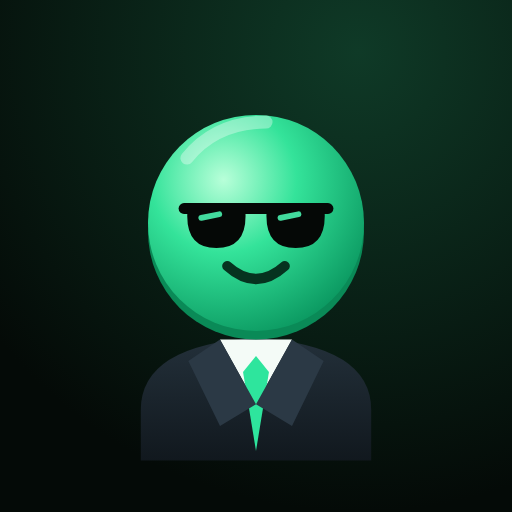
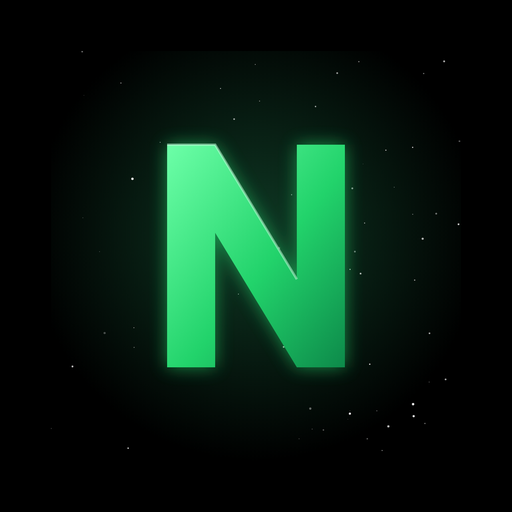
Galaxia negra con estrellas que brillan, íconos y personajes nuevos
Claude-Session: https://claude.ai/code/session_01778MfouyxbgDrk4pFyrYCz

diff --git a/galaxy.js b/galaxy.js
@@ -1,62 +1,76 @@
-// Fondo de galaxia en movimiento: estrellas que se desplazan en capas, nebulosas que respiran
-// y una estrella fugaz de vez en cuando. Se adapta al tema claro u oscuro de la app.
+// Fondo de galaxia negra: estrellas que titilan, algunas con destello en cruz, una Vía Láctea
+// muy suave que gira lento y estrellas fugaces de vez en cuando. En tema claro se vuelve discreto.
 (function () {
   if (window.__galaxy) return; window.__galaxy = true;
   var st = document.createElement('style');
-  st.textContent = 'html:not(#gx){background:var(--bg,#0e0e16)!important}html body:not(#gx),html .auth:not(#gx),html #authOverlay:not(#gx){background:transparent!important}#galaxy-bg{position:fixed;inset:0;width:100vw;height:100vh;z-index:-1;pointer-events:none;display:block}';
+  st.id = 'galaxy-css';
   document.head.appendChild(st);
   var cv = document.createElement('canvas'); cv.id = 'galaxy-bg'; cv.setAttribute('aria-hidden', 'true');
   function mount() { document.body.insertBefore(cv, document.body.firstChild); }
   if (document.body) mount(); else document.addEventListener('DOMContentLoaded', mount);
-  var c = cv.getContext('2d'), W = 0, H = 0, D = 1, stars = [], dark = true, base = [14, 14, 22], accent = [124, 92, 255];
+  var c = cv.getContext('2d'), W = 0, H = 0, D = 1, stars = [], dust = [], dark = true, shoot = null;
   function rgb(s) { var m = String(s).match(/\d+(\.\d+)?/g); return m && m.length >= 3 ? [+m[0], +m[1], +m[2]] : null; }
   function theme() {
-    var cs = getComputedStyle(document.documentElement);
-    base = rgb(cs.backgroundColor) || base;
-    var a = cs.getPropertyValue('--accent') || cs.getPropertyValue('--brand') || cs.getPropertyValue('--primary');
-    if (a && a.trim()) { var t = document.createElement('i'); t.style.color = a.trim(); document.body.appendChild(t); accent = rgb(getComputedStyle(t).color) || accent; t.remove(); }
-    dark = (0.299 * base[0] + 0.587 * base[1] + 0.114 * base[2]) < 128;
+    // Lee el color de fondo que define la app (--bg) para saber si está en tema oscuro o claro.
+    var probe = document.createElement('i'); probe.style.color = 'var(--bg, #000)'; document.body.appendChild(probe);
+    var b = rgb(getComputedStyle(probe).color) || [0, 0, 0]; probe.remove();
+    var was = dark; dark = (0.299 * b[0] + 0.587 * b[1] + 0.114 * b[2]) < 128;
+    st.textContent = 'html:not(#gx){background:' + (dark ? '#000' : 'var(--bg,#f4f4f7)') + '!important}html body:not(#gx),html .auth:not(#gx),html #authOverlay:not(#gx){background:transparent!important}#galaxy-bg{position:fixed;inset:0;width:100vw;height:100vh;z-index:-1;pointer-events:none;display:block}';
+    var mt = document.querySelector('meta[name="theme-color"]'); if (mt && dark) mt.setAttribute('content', '#000000');
+    return was !== dark;
   }
   function seed() {
-    var n = Math.round(Math.min(260, W * H / 4200)); stars = [];
-    for (var i = 0; i < n; i++) stars.push({ x: Math.random() * W, y: Math.random() * H, z: Math.random(), p: Math.random() * 6.28, h: Math.random() });
+    var n = Math.round(Math.min(420, W * H / 2600)); stars = [];
+    for (var i = 0; i < n; i++) {
+      var z = Math.pow(Math.random(), 2.2);
+      stars.push({ x: Math.random() * W, y: Math.random() * H, z: z, p: Math.random() * 6.28, sp: .6 + Math.random() * 2.4, h: Math.random(), flare: z > .82 && Math.random() < .5 });
+    }
+    dust = []; for (var j = 0; j < 260; j++) { var t = Math.random(); dust.push({ t: t, o: (Math.random() - .5) * (.12 + Math.random() * .1), r: Math.random() * 1.1 + .2, a: Math.random() }); }
   }
   function size() { D = Math.min(2, window.devicePixelRatio || 1); W = innerWidth; H = innerHeight; cv.width = W * D; cv.height = H * D; c.setTransform(D, 0, 0, D, 0, 0); seed(); }
-  var shoot = null;
-  function frame(t) {
-    t /= 1000;
+  function frame(ms) {
+    var t = ms / 1000;
     c.clearRect(0, 0, W, H);
-    // nebulosas
-    var neb = [[accent, .25, .3, .55], [[90, 140, 255], .8, .2, .45], [[255, 110, 190], .6, .85, .5]];
-    for (var k = 0; k < neb.length; k++) {
-      var col = neb[k][0], x = W * (neb[k][1] + .06 * Math.sin(t * .05 + k * 2)), y = H * (neb[k][2] + .05 * Math.cos(t * .04 + k)), r = Math.max(W, H) * neb[k][3] * (1 + .08 * Math.sin(t * .1 + k));
-      var g = c.createRadialGradient(x, y, 0, x, y, r), a = dark ? .2 : .1;
-      g.addColorStop(0, 'rgba(' + col + ',' + a + ')'); g.addColorStop(1, 'rgba(' + col + ',0)');
-      c.fillStyle = g; c.fillRect(0, 0, W, H);
-    }
-    // estrellas en capas (las cercanas se mueven más rápido)
+    var ink = dark ? '255,255,255' : '40,40,80';
+    // Vía Láctea: una banda diagonal muy tenue que gira despacio
+    c.save(); c.translate(W / 2, H / 2); c.rotate(-.55 + Math.sin(t * .01) * .05);
+    var L = Math.hypot(W, H), bw = Math.min(W, H) * .32;
+    var g = c.createLinearGradient(0, -bw, 0, bw);
+    g.addColorStop(0, 'rgba(120,110,200,0)'); g.addColorStop(.5, dark ? 'rgba(150,140,230,.07)' : 'rgba(120,110,200,.05)'); g.addColorStop(1, 'rgba(120,110,200,0)');
+    c.fillStyle = g; c.fillRect(-L, -bw, L * 2, bw * 2);
+    for (var j = 0; j < dust.length; j++) { var d = dust[j]; var x = (d.t - .5) * L * 1.1, y = d.o * L; c.fillStyle = 'rgba(' + ink + ',' + (.15 + .25 * (.5 + .5 * Math.sin(t * .8 + d.a * 9))) * (dark ? 1 : .5) + ')'; c.fillRect(x, y, d.r, d.r); }
+    c.restore();
+    // estrellas
     for (var i = 0; i < stars.length; i++) {
-      var s = stars[i], sp = .8 + s.z * 7;
-      var x2 = (s.x + t * sp) % (W + 4), y2 = (s.y + t * sp * .35) % (H + 4);
-      var tw = .5 + .5 * Math.sin(t * (1 + s.z * 2) + s.p), r2 = .4 + s.z * 1.5;
-      var tint = s.h < .15 ? '200,215,255' : s.h > .92 ? '255,225,190' : (dark ? '255,255,255' : '60,60,110');
-      c.fillStyle = 'rgba(' + tint + ',' + ((dark ? .35 : .22) + tw * (dark ? .6 : .3)) + ')';
-      c.beginPath(); c.arc(x2, y2, r2, 0, 6.29); c.fill();
-      if (s.z > .93 && dark) { c.fillStyle = 'rgba(255,255,255,' + tw * .12 + ')'; c.beginPath(); c.arc(x2, y2, r2 * 4, 0, 6.29); c.fill(); }
+      var s = stars[i];
+      var x2 = (s.x + t * (1 + s.z * 4)) % (W + 6), y2 = s.y;
+      var tw = .5 + .5 * Math.sin(t * s.sp + s.p); tw = tw * tw;
+      var r = .35 + s.z * 1.7;
+      var col = s.h < .12 ? '180,205,255' : s.h > .93 ? '255,220,180' : ink;
+      var a = (dark ? .25 : .12) + tw * (dark ? .75 : .35);
+      c.fillStyle = 'rgba(' + col + ',' + a + ')';
+      c.beginPath(); c.arc(x2, y2, r, 0, 6.29); c.fill();
+      if (s.flare && dark) {
+        var fl = r * (4 + tw * 7);
+        c.strokeStyle = 'rgba(' + col + ',' + tw * .55 + ')'; c.lineWidth = .8;
+        c.beginPath(); c.moveTo(x2 - fl, y2); c.lineTo(x2 + fl, y2); c.moveTo(x2, y2 - fl); c.lineTo(x2, y2 + fl); c.stroke();
+        var gg = c.createRadialGradient(x2, y2, 0, x2, y2, r * 6); gg.addColorStop(0, 'rgba(' + col + ',' + tw * .35 + ')'); gg.addColorStop(1, 'rgba(' + col + ',0)');
+        c.fillStyle = gg; c.beginPath(); c.arc(x2, y2, r * 6, 0, 6.29); c.fill();
+      }
     }
     // estrella fugaz
-    if (!shoot && Math.random() < .004) shoot = { x: Math.random() * W * .8, y: Math.random() * H * .4, l: 0 };
+    if (!shoot && Math.random() < .003) shoot = { x: Math.random() * W * .8, y: Math.random() * H * .45, l: 0, a: .35 + Math.random() * .3 };
     if (shoot) {
-      shoot.l += .02; var L = shoot.l, sx = shoot.x + L * W * .4, sy = shoot.y + L * H * .2;
-      var lg = c.createLinearGradient(sx, sy, sx - 110, sy - 55);
-      lg.addColorStop(0, (dark ? 'rgba(255,255,255,' : 'rgba(80,80,140,') + (1 - L) + ')'); lg.addColorStop(1, 'rgba(255,255,255,0)');
-      c.strokeStyle = lg; c.lineWidth = 1.8; c.beginPath(); c.moveTo(sx, sy); c.lineTo(sx - 110, sy - 55); c.stroke();
-      if (L >= 1) shoot = null;
+      shoot.l += .018; var k = shoot.l, sx = shoot.x + k * W * .45, sy = shoot.y + k * W * .45 * shoot.a, len = 140;
+      var lg = c.createLinearGradient(sx, sy, sx - len, sy - len * shoot.a);
+      lg.addColorStop(0, 'rgba(' + ink + ',' + Math.sin(k * Math.PI) + ')'); lg.addColorStop(1, 'rgba(' + ink + ',0)');
+      c.strokeStyle = lg; c.lineWidth = 1.6; c.beginPath(); c.moveTo(sx, sy); c.lineTo(sx - len, sy - len * shoot.a); c.stroke();
+      if (k >= 1) shoot = null;
     }
   }
   var reduce = matchMedia('(prefers-reduced-motion: reduce)').matches;
   function loop(ts) { if (!document.hidden) frame(ts); requestAnimationFrame(loop); }
-  function start() { theme(); size(); if (reduce) frame(20000); else requestAnimationFrame(loop); setInterval(function () { var d = dark, b = base + ''; theme(); if (reduce && (d !== dark || b !== base + '')) frame(20000); }, 1500); }
+  function start() { theme(); size(); if (reduce) frame(20000); else requestAnimationFrame(loop); setInterval(function () { if (theme() && reduce) frame(20000); }, 1500); }
   addEventListener('resize', function () { size(); if (reduce) frame(20000); });
   if (document.readyState === 'loading') document.addEventListener('DOMContentLoaded', start); else start();
 })();

diff --git a/index.html b/index.html
@@ -3,7 +3,7 @@
 <head>
 <meta charset="utf-8">
 <meta name="viewport" content="width=device-width,initial-scale=1,viewport-fit=cover">
-<meta name="theme-color" content="#131416">
+<meta name="theme-color" content="#000000">
 <meta name="north-version" content="3">
 <meta name="apple-mobile-web-app-capable" content="yes">
 <meta name="apple-mobile-web-app-status-bar-style" content="black-translucent">
@@ -233,6 +233,7 @@ body{background:var(--bg)!important}
 .toast{background:#ededee;color:#131416}
 .coin-svg text[fill="#b9ffdf"]{fill:#9b9ca3}
 @media (prefers-reduced-motion:reduce){*{animation:none!important;transition:none!important}}
+@keyframes nfloat{0%,100%{transform:translateY(0)}50%{transform:translateY(-4px)}}@keyframes nhop{0%,100%{transform:translateY(0)}40%{transform:translateY(-10px) scale(1.04,.96)}}@keyframes nspin{0%,100%{transform:rotate(0)}30%{transform:translateY(-12px) rotate(-8deg)}60%{transform:translateY(-12px) rotate(8deg)}}@keyframes nsad{0%,100%{transform:translateY(3px) rotate(-4deg)}}@keyframes ntilt{0%,100%{transform:rotate(-6deg)}50%{transform:rotate(6deg)}}
 </style>
 </head>
 <body>
@@ -350,39 +351,12 @@ function ic(n,s=20,w=1.9){return `<svg class="ic" width="${s}" height="${s}" vie
 /* ====================== mascota: moneda con lentes ====================== */
 let _cid=0;
 function coinSVG(size=90,mood='idle'){
-  if(isSleep()&&mood!=='celebrate')mood='sleep';
-  const id='c'+(++_cid),sleep=mood==='sleep';
-  const eyes=sleep
-    ?`<path d="M47 40q5 4 10 0M63 40q5 4 10 0" stroke="#08331f" stroke-width="2.8" fill="none" stroke-linecap="round"/>`
-    :`<g class="glass"><path d="M40 36h40" stroke="#050806" stroke-width="3" stroke-linecap="round"/><path d="M41 36h16q1 11-8 11t-8-11z" fill="#050806"/><path d="M63 36h16q1 11-8 11t-8-11z" fill="#050806"/><path d="M45 39l5-1M67 39l5-1" stroke="#4dffb8" stroke-width="1.8" stroke-linecap="round" opacity=".85"/></g>`;
-  const mouth=mood==='happy'||mood==='celebrate'||mood==='wave'
-    ?`<path d="M52 52q8 9 16 0z" fill="#06331f" stroke="#06331f" stroke-width="2" stroke-linejoin="round"/><path d="M55 55q5 3 10 0" fill="#ff7b8a"/>`
-    :mood==='think'?`<path d="M54 55q6-3 11 1" stroke="#06331f" stroke-width="2.6" fill="none" stroke-linecap="round"/>`
-    :sleep?`<ellipse cx="60" cy="55" rx="3" ry="2.2" fill="#06331f"/>`
-    :`<path d="M52 52q8 7 16 0" stroke="#06331f" stroke-width="2.8" fill="none" stroke-linecap="round"/>`;
-  const zz=sleep?`<text class="z" x="88" y="20" font-size="12" font-weight="800" fill="#b9ffdf">z</text><text class="z z2" x="96" y="11" font-size="15" font-weight="800" fill="#b9ffdf">z</text><text class="z z3" x="104" y="2" font-size="18" font-weight="800" fill="#b9ffdf">Z</text>`:'';
-  const bills=`<g class="bills"><rect class="bill b1" x="92" y="104" width="13" height="7" rx="1.5" fill="#7dffc0" stroke="#0a8a57"/><rect class="bill b2" x="98" y="104" width="13" height="7" rx="1.5" fill="#7dffc0" stroke="#0a8a57"/><rect class="bill b3" x="95" y="104" width="13" height="7" rx="1.5" fill="#7dffc0" stroke="#0a8a57"/></g>`;
-  return `<svg class="coin-svg m-${mood}" width="${size}" height="${size}" viewBox="0 0 120 150" onclick="coinPoke(this)" role="img" aria-label="North, tu asesor de bolsillo">
-  <defs><radialGradient id="${id}g" cx="35%" cy="30%" r="75%"><stop offset="0" stop-color="#b8ffd9"/><stop offset=".45" stop-color="#34e39a"/><stop offset="1" stop-color="#0c9a62"/></radialGradient>
-  <linearGradient id="${id}s" x1="0" y1="0" x2="0" y2="1"><stop offset="0" stop-color="#23303a"/><stop offset="1" stop-color="#11181e"/></linearGradient>
-  <linearGradient id="${id}b" x1="0" y1="0" x2="0" y2="1"><stop offset="0" stop-color="#8a5a2b"/><stop offset="1" stop-color="#5a3715"/></linearGradient></defs>
-  <ellipse class="cs" cx="60" cy="145" rx="30" ry="4.5" fill="#000"/>
-  <g class="cb">
-    <g class="legs"><rect x="47" y="118" width="10" height="20" rx="4" fill="#11181e"/><rect x="63" y="118" width="10" height="20" rx="4" fill="#11181e"/><ellipse cx="51" cy="139" rx="8" ry="4" fill="#050806"/><ellipse cx="69" cy="139" rx="8" ry="4" fill="#050806"/></g>
-    <g class="arm l"><path d="M38 80q-12 10-10 26" stroke="#1b252d" stroke-width="10" fill="none" stroke-linecap="round"/><circle cx="28" cy="107" r="5.5" fill="#34e39a"/></g>
-    <path d="M36 122V86q0-14 24-16q24 2 24 16v36z" fill="url(#${id}s)"/>
-    <path d="M52 71l8 16 8-16z" fill="#f4fbf7"/>
-    <path d="M60 76l-3.5 4 3.5 22 3.5-22z" fill="#2ee59d"/><path d="M57 75h6l-3 4z" fill="#12b981"/>
-    <path d="M52 71l-7 5 7 16 8-5zM68 71l7 5-7 16-8-5z" fill="#2b3945"/>
-    <circle cx="60" cy="104" r="1.6" fill="#0b1014"/><circle cx="60" cy="112" r="1.6" fill="#0b1014"/>
-    <path d="M73 86h6" stroke="#2ee59d" stroke-width="2.4" stroke-linecap="round"/>
-    <g class="arm r"><path d="M82 80q10 10 10 22" stroke="#1b252d" stroke-width="10" fill="none" stroke-linecap="round"/><circle cx="92" cy="103" r="5.5" fill="#34e39a"/>
-      <g class="case">${bills}<path d="M87 105q0-5 5-5t5 5" stroke="#3b240d" stroke-width="2.6" fill="none"/><rect x="78" y="105" width="28" height="21" rx="4" fill="url(#${id}b)"/><rect x="78" y="112" width="28" height="2.4" fill="#3b240d" opacity=".6"/><rect x="89" y="110" width="6" height="6" rx="1.2" fill="#f5c542"/><text x="92" y="124" text-anchor="middle" font-size="7" font-weight="900" fill="#f5c542">$</text></g></g>
-    <g class="head"><circle cx="60" cy="42" r="30" fill="#0a8a57"/><circle cx="60" cy="40" r="30" fill="url(#${id}g)"/><path d="M40 22q8-10 22-10" stroke="#fff" stroke-width="4" fill="none" stroke-linecap="round" opacity=".35"/>${eyes}${mouth}</g>
-  </g>${zz}</svg>`;
+  // La marca de North: una N verde que brilla y reacciona según el momento.
+  const anim={happy:'nhop',celebrate:'nspin',sad:'nsad',think:'ntilt'}[mood]||'nfloat';
+  return `<svg class="nmark" width="${size}" height="${size}" viewBox="0 0 100 100" role="img" aria-label="North" style="overflow:visible"><defs><linearGradient id="ng${size}${mood}" x1="0" y1="0" x2="1" y2="1"><stop offset="0" stop-color="#6dffa8"/><stop offset=".55" stop-color="#22d36b"/><stop offset="1" stop-color="#0d8a4a"/></linearGradient><filter id="nb${size}${mood}" x="-50%" y="-50%" width="200%" height="200%"><feGaussianBlur stdDeviation="5"/></filter></defs><g style="transform-box:fill-box;transform-origin:50% 100%;animation:${anim} ${mood==='celebrate'?1.2:3}s ease-in-out infinite"><path d="M24 84V16h15l23 38V16h14v68H62L39 46v38z" fill="#22d36b" opacity=".55" filter="url(#nb${size}${mood})"/><path d="M24 84V16h15l23 38V16h14v68H62L39 46v38z" fill="url(#ng${size}${mood})"/><path d="M24 16h15l23 38" stroke="#d2ffe4" stroke-width="1.6" fill="none" opacity=".55"/></g></svg>`;
 }
 function coinPoke(el){sfx('coin');buzz(12);el.classList.remove('m-idle');el.classList.add('m-happy');setTimeout(()=>{el.classList.remove('m-happy')},1300)}
-function logoSVG(s=34){return `<svg width="${s}" height="${s}" viewBox="0 0 64 64"><rect width="64" height="64" rx="16" fill="#050c09"/><circle cx="32" cy="32" r="19" fill="#2ee59d"/><circle cx="32" cy="32" r="14.5" fill="none" stroke="#0a8a57" stroke-width="1.6" stroke-dasharray="1.5 3.5"/><path d="M20 29h24" stroke="#050806" stroke-width="2.4" stroke-linecap="round"/><path d="M21 29h9q.5 6-4.5 6t-4.5-6zM34 29h9q.5 6-4.5 6t-4.5-6z" fill="#050806"/><path d="M27 39q5 4 10 0" stroke="#06331f" stroke-width="2.2" fill="none" stroke-linecap="round"/></svg>`}
+function logoSVG(s=34){return `<svg width="${s}" height="${s}" viewBox="0 0 64 64" role="img" aria-label="North"><defs><linearGradient id="nlg" x1="0" y1="0" x2="1" y2="1"><stop offset="0" stop-color="#6dffa8"/><stop offset=".55" stop-color="#22d36b"/><stop offset="1" stop-color="#0d8a4a"/></linearGradient></defs><rect width="64" height="64" rx="16" fill="#000"/><path d="M18 49V15h7.5L39 36V15h7.5v34H39L25.5 28v21z" fill="url(#nlg)"/></svg>`}
 
 /* ====================== toast y festejos ====================== */
 let toastT=null;

diff --git a/sw.js b/sw.js
@@ -1,6 +1,6 @@
 // Service worker de North: la página siempre se pide a la red primero (para no quedarse con versiones viejas)
 // y los íconos se guardan en caché. También recibe los avisos de pago.
-const CACHE = 'north-static-v3';
+
 const ASSETS = ['./manifest.json', './icons/icon-192.png', './icons/icon-512.png'];
 self.addEventListener('install', (e) => { e.waitUntil(caches.open(CACHE).then((c) => c.addAll(ASSETS)).catch(() => {})); self.skipWaiting(); });
 self.addEventListener('activate', (e) => { e.waitUntil(caches.keys().then((ks) => Promise.all(ks.filter((k) => k !== CACHE).map((k) => caches.delete(k))))); self.clients.claim(); });
